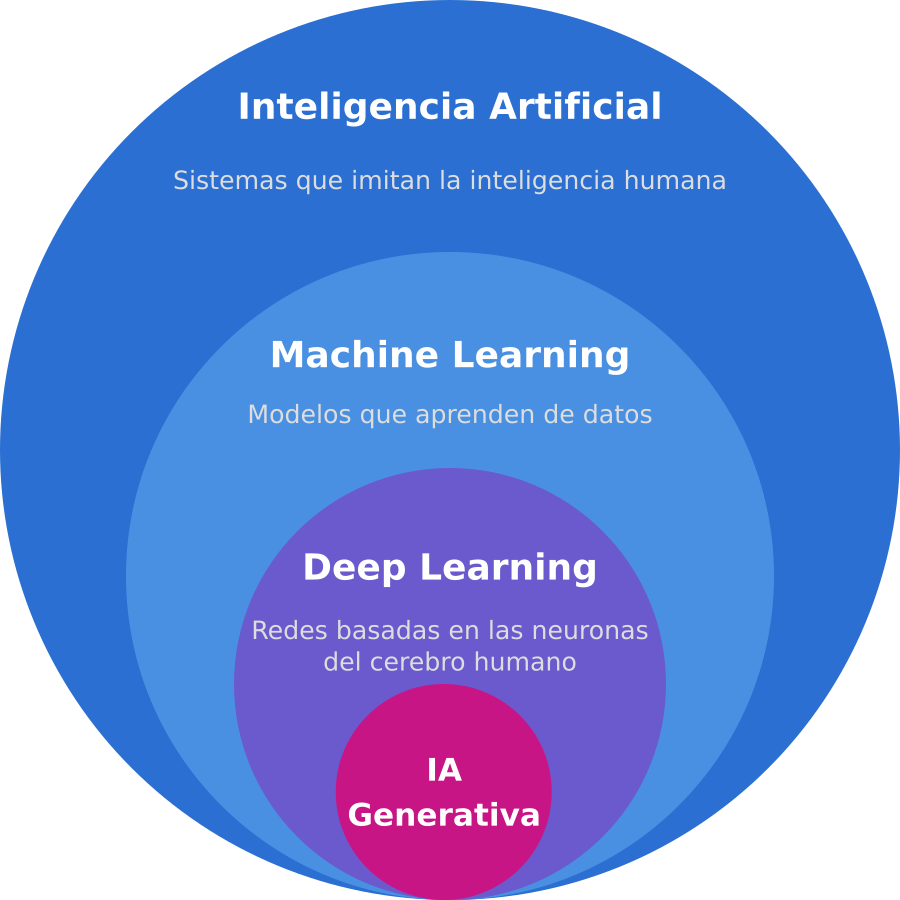
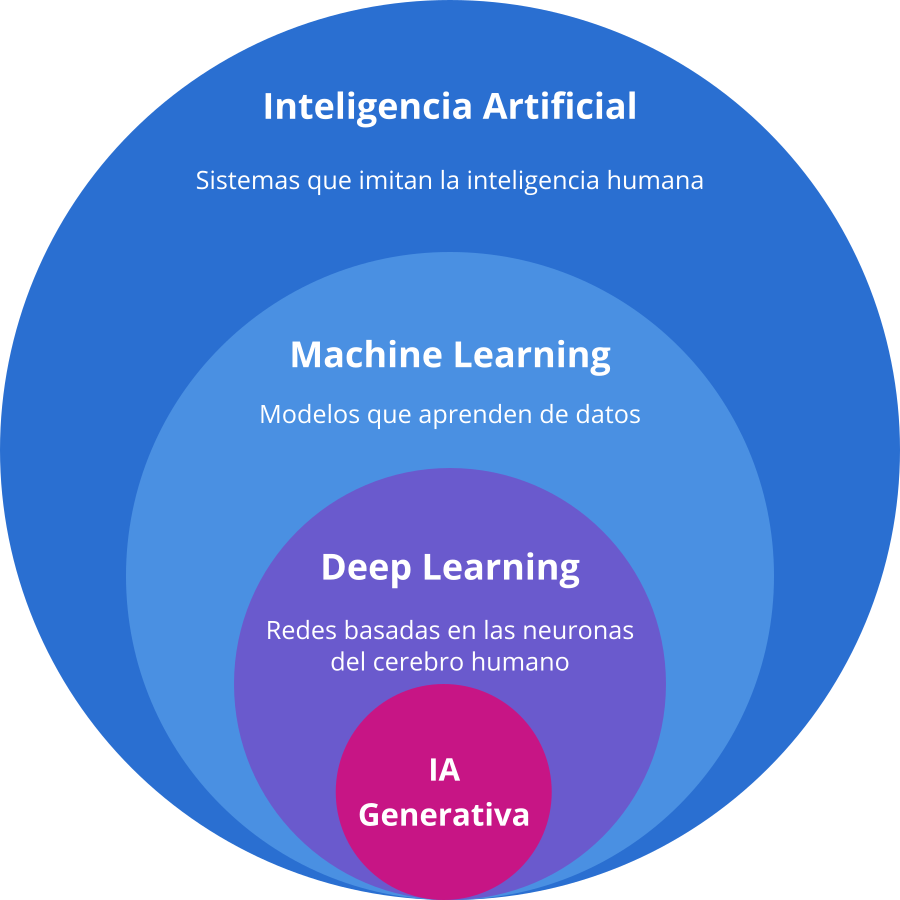
Añadimos las métricas a usar

diff --git a/LanguageDatasets.py b/LanguageDatasets.py
@@ -2,6 +2,9 @@ import os, re, json, html, regex
 import pandas as pd
 from datasets import Dataset
 from collections import Counter
+import numpy as np
+import unicodedata
+
 
 lang_code = {
     "asturiano": {
@@ -19,7 +22,7 @@ lang_code = {
 }
 
 class LanguageDatasets():
-    def __init__(self, language, initialize=False, min_words=4):
+    def __init__(self, language, initialize=False, min_words=4, max_words=np.inf):
         if language not in ["aragones", "asturiano", "occitano"]:
             raise KeyError("Lenguaje no contemplado")
         self.raw_datasets = {}
@@ -27,6 +30,7 @@ class LanguageDatasets():
         self.language_codes = lang_code[language]
         self.json = []
         self.MIN_WORDS = min_words
+        self.MAX_WORDS = max_words
         if initialize:
             self.start()
 
@@ -159,8 +163,9 @@ class LanguageDatasets():
         # 5. Remove emojis / non-ASCII symbols (pero mantener letras latinas con tildes y ñ)
         text = regex.sub(r"\p{Emoji}+", " ", text)
 
-        # 6. Replace non-letter/number characters except whitespace/newline and basic punctuation
-        text = regex.sub(r"[^\p{L}\p{N}\s\n!?.,;:]", " ", text)
+        # 6. Replace non-letter/number characters except whitespace/newline and basic punctuation y apostrofes
+        text = unicodedata.normalize("NFC", text) # Normalize to make all ´ equal.
+        text = regex.sub(r"[^\p{L}\p{N}\s\n!?.,;:'’-]", " ", text)
 
 
         # 7. Normalize spaces/tabs
@@ -181,7 +186,7 @@ class LanguageDatasets():
 
         # 11. Filtrar basura: líneas demasiado cortas, repetitivas o sin sentido 
         words = text.split()
-        if len(words) <= self.MIN_WORDS:
+        if len(words) <= self.MIN_WORDS or len(text) >= self.MAX_CHARACTERS:
             return None
         if words and all(w == words[0] for w in words):
             return None

diff --git a/README.md b/README.md
@@ -1,2 +1,48 @@
 # TFG
 TFG about LLM and minoritary spanish languages
+## Benchmark para evaluar LLMs en gallego, asturiano y aranés
+
+### 1. Evaluación mediante LLM como juez
+
+Se emplea un modelo grande como evaluador externo. El procedimiento consiste en:
+
+1. Generar una tarea (pregunta, resumen, traducción, clasificación, corrección, etc.).
+2. Obtener la respuesta del modelo evaluado.
+3. Pedir a un LLM más potente que valore la respuesta según criterios como adecuación, fidelidad, corrección lingüística y coherencia.
+
+Aunque el evaluador no sea perfecto en estas lenguas, su consistencia permite comparar modelos de forma relativa.
+
+### 2. Traducción como tarea de evaluación
+
+La traducción asturiano ↔ español y aranés ↔ español permite medir comprensión y generación. Para el aranés puede ser útil incluir también comparaciones con francés, dado su parentesco occitano. La evaluación puede realizarse mediante:
+
+- LLM como juez. (lo prefiero, para evitar sesgos de que haya generado el LLM grande)
+- Métricas automáticas basadas en similitud semántica entre la traducción del modelo y una traducción de referencia generada por un LLM grande.
+
+### 3. Corrección gramatical mediante introducción de errores
+
+Para evaluar la capacidad de corrección, se parte de textos correctos en asturiano o aranés (por ejemplo, de Wikipedia). Un LLM grande introduce errores controlados de ortografía, morfología o sintaxis. El modelo evaluado debe corregirlos. La comparación con el texto original permite medir la calidad de la corrección.
+
+### 4. Medición de castellanización o interferencia lingüística
+
+Para detectar si el modelo mezcla castellano con asturiano o aranés, se pueden aplicar métricas cuantitativas:
+
+#### 4.1. Índice tipo‑token (TTR)
+
+Se calcula como número de palabras únicas dividido entre el total de palabras. Un TTR bajo puede indicar uso excesivo de vocabulario castellano básico.
+
+#### 4.2. Entropía léxica
+
+Se calcula la distribución de frecuencias de los tokens y su entropía. Una entropía baja sugiere un vocabulario poco variado y potencial castellanización.
+
+#### 4.3. Frecuencia relativa de formas propias
+
+Se construye un lexicón asturiano o aranés a partir de corpus públicos. Se compara la proporción de tokens generados por el modelo que pertenecen al lexicón propio frente a un lexicón castellano o francés (en el caso del aranés). Esto permite medir interferencia.
+
+#### 4.4. N‑gram overlap con corpus de referencia
+
+Se toma un corpus real en asturiano o aranés (por ejemplo, Wikipedia). Se extraen sus n‑gramas y se comparan con los n‑gramas generados por el modelo. El modelo no recibe nada en esta fase; simplemente se analizan sus salidas. Un solapamiento bajo indica que el modelo no reproduce patrones característicos de la lengua.
+
+### 5. Evaluación de consistencia intra‑modelo
+
+Consiste en pedir al modelo que genere un texto en la lengua objetivo, lo traduzca al español, vuelva a traducirlo al asturiano/gallego/aranés, y comparar la versión final con la inicial.
